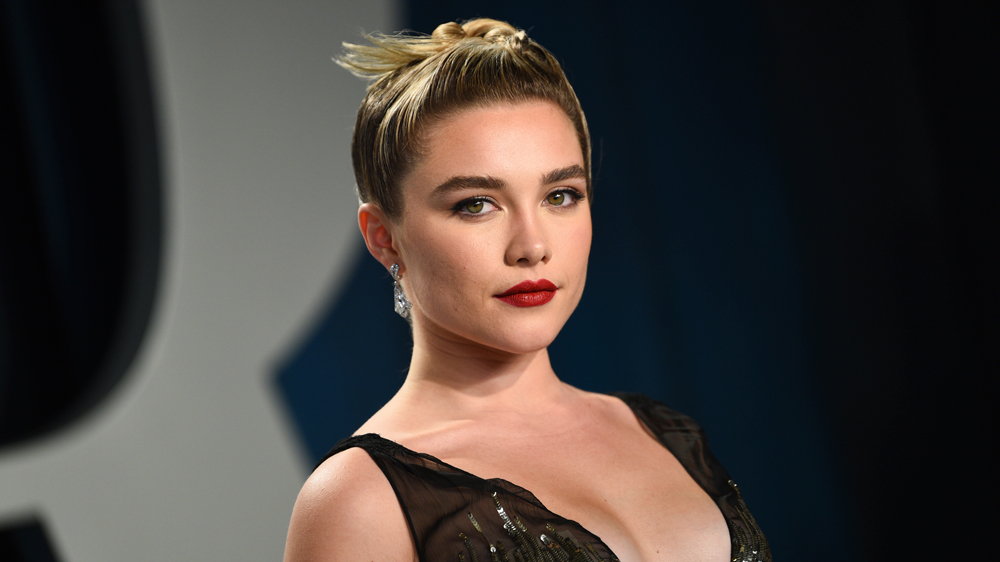
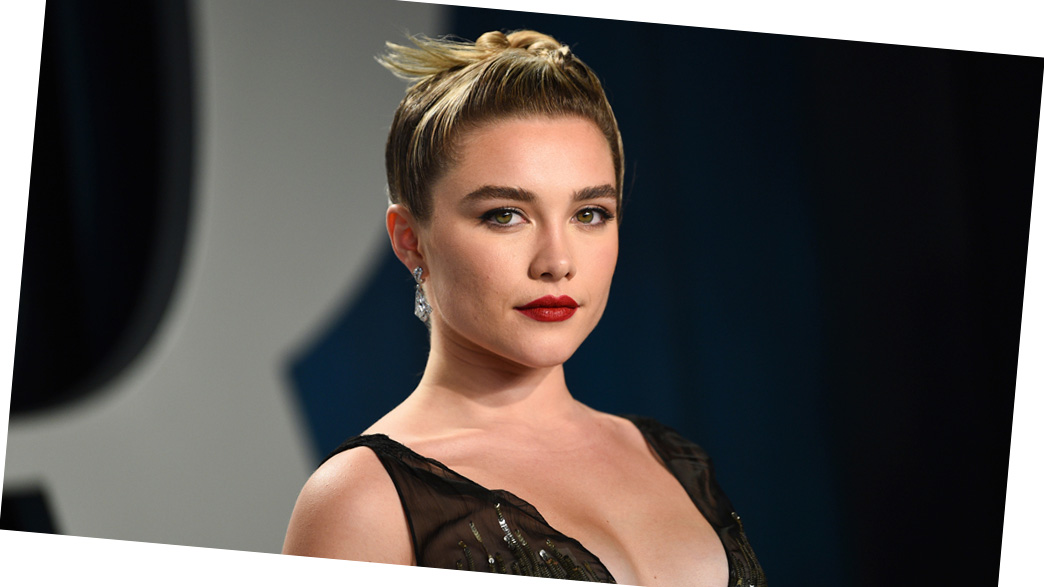
fix: fix florene pugh on ios

diff --git a/css/styles.css b/css/styles.css
@@ -483,7 +483,7 @@ main {
   transform: scale(1.8) translateY(25%) translateX(5%);
 }
 .celebrities-main .celebrities-wrapper .celebrities-slider-wrapper .celebrity-card .celebrity-image-wrapper .celebrity-image#Florence-Pugh-img {
-  transform: scale(2) rotate(10deg) translateY(5%);
+  transform: scale(2.3) translateY(5%);
 }
 .celebrities-main .celebrities-wrapper .celebrities-slider-wrapper .celebrity-card .celebrity-image-wrapper .celebrity-image#Scarlett-Johansson-img {
   transform: scale(1.01) translateY(5%);

diff --git a/scss/components/_celebrities.scss b/scss/components/_celebrities.scss
@@ -160,7 +160,7 @@ $celebrity-card-height: 300px;
         transform: scale(1.8) translateY(25%) translateX(5%);
     }
     &#Florence-Pugh-img {
-        transform: scale(2) rotate(10deg) translateY(5%);
+        transform: scale(2.3) translateY(5%);
     }
     &#Scarlett-Johansson-img {
         transform: scale(1.01) translateY(5%);
